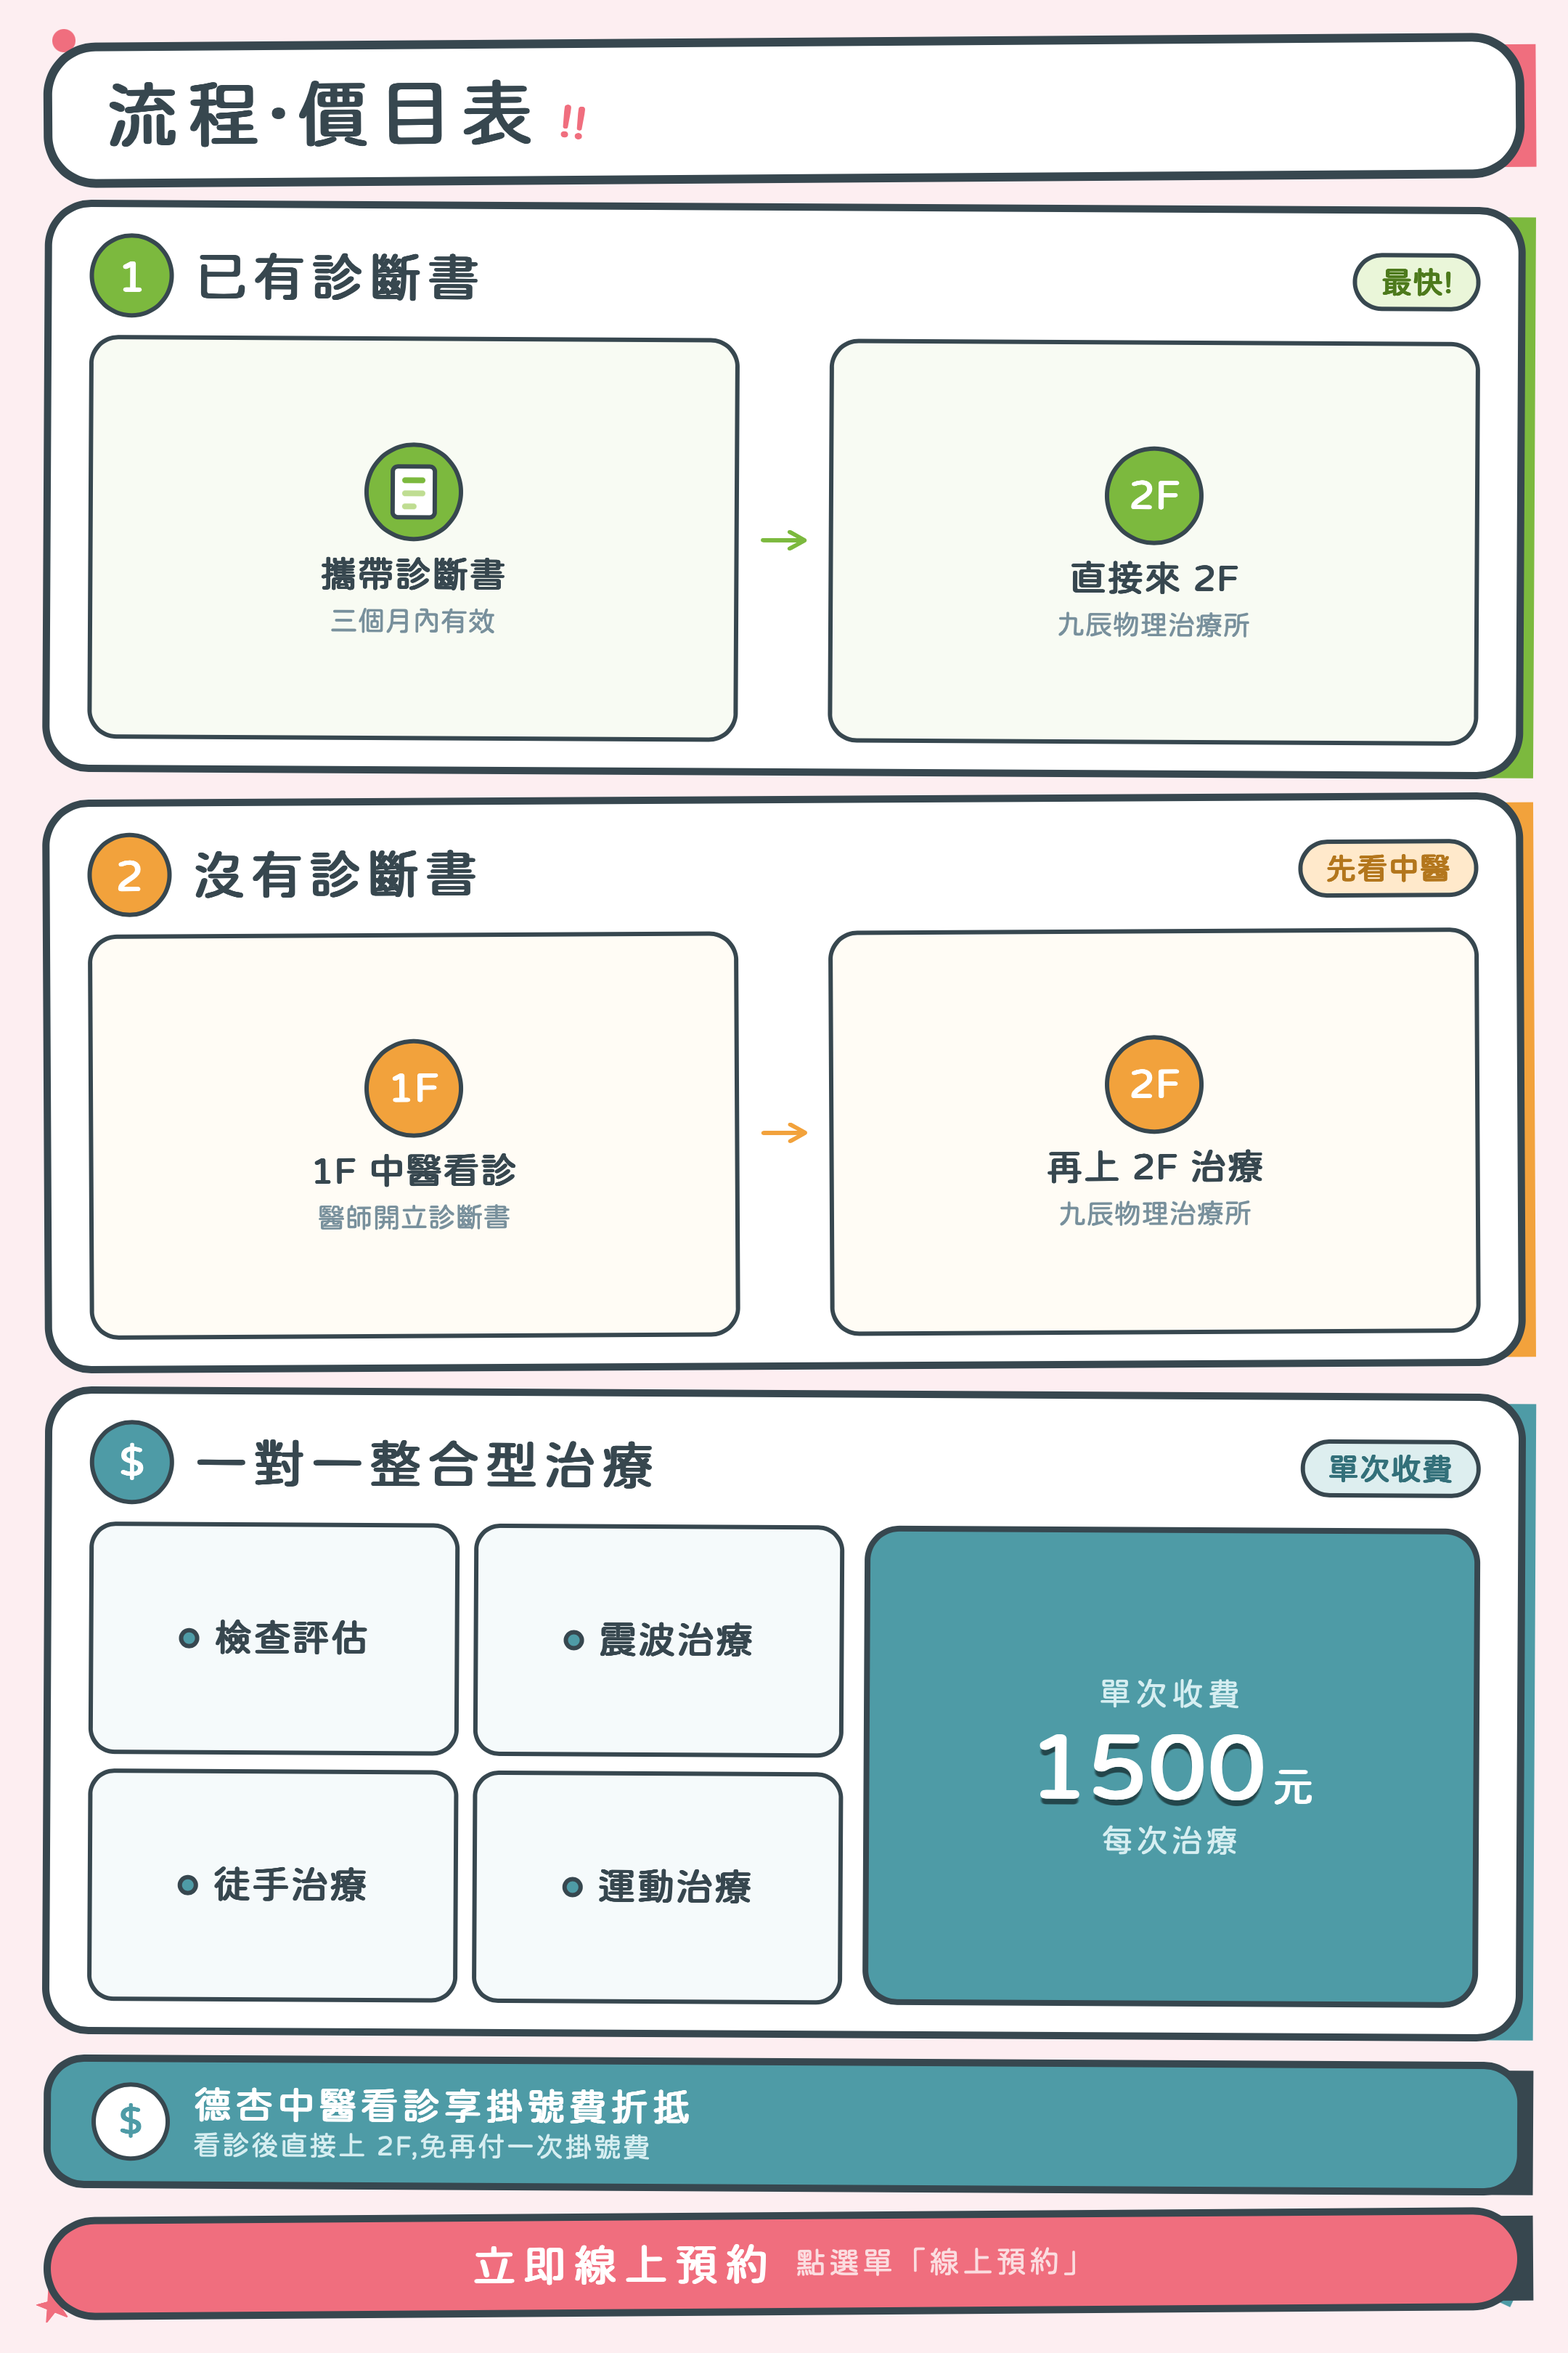
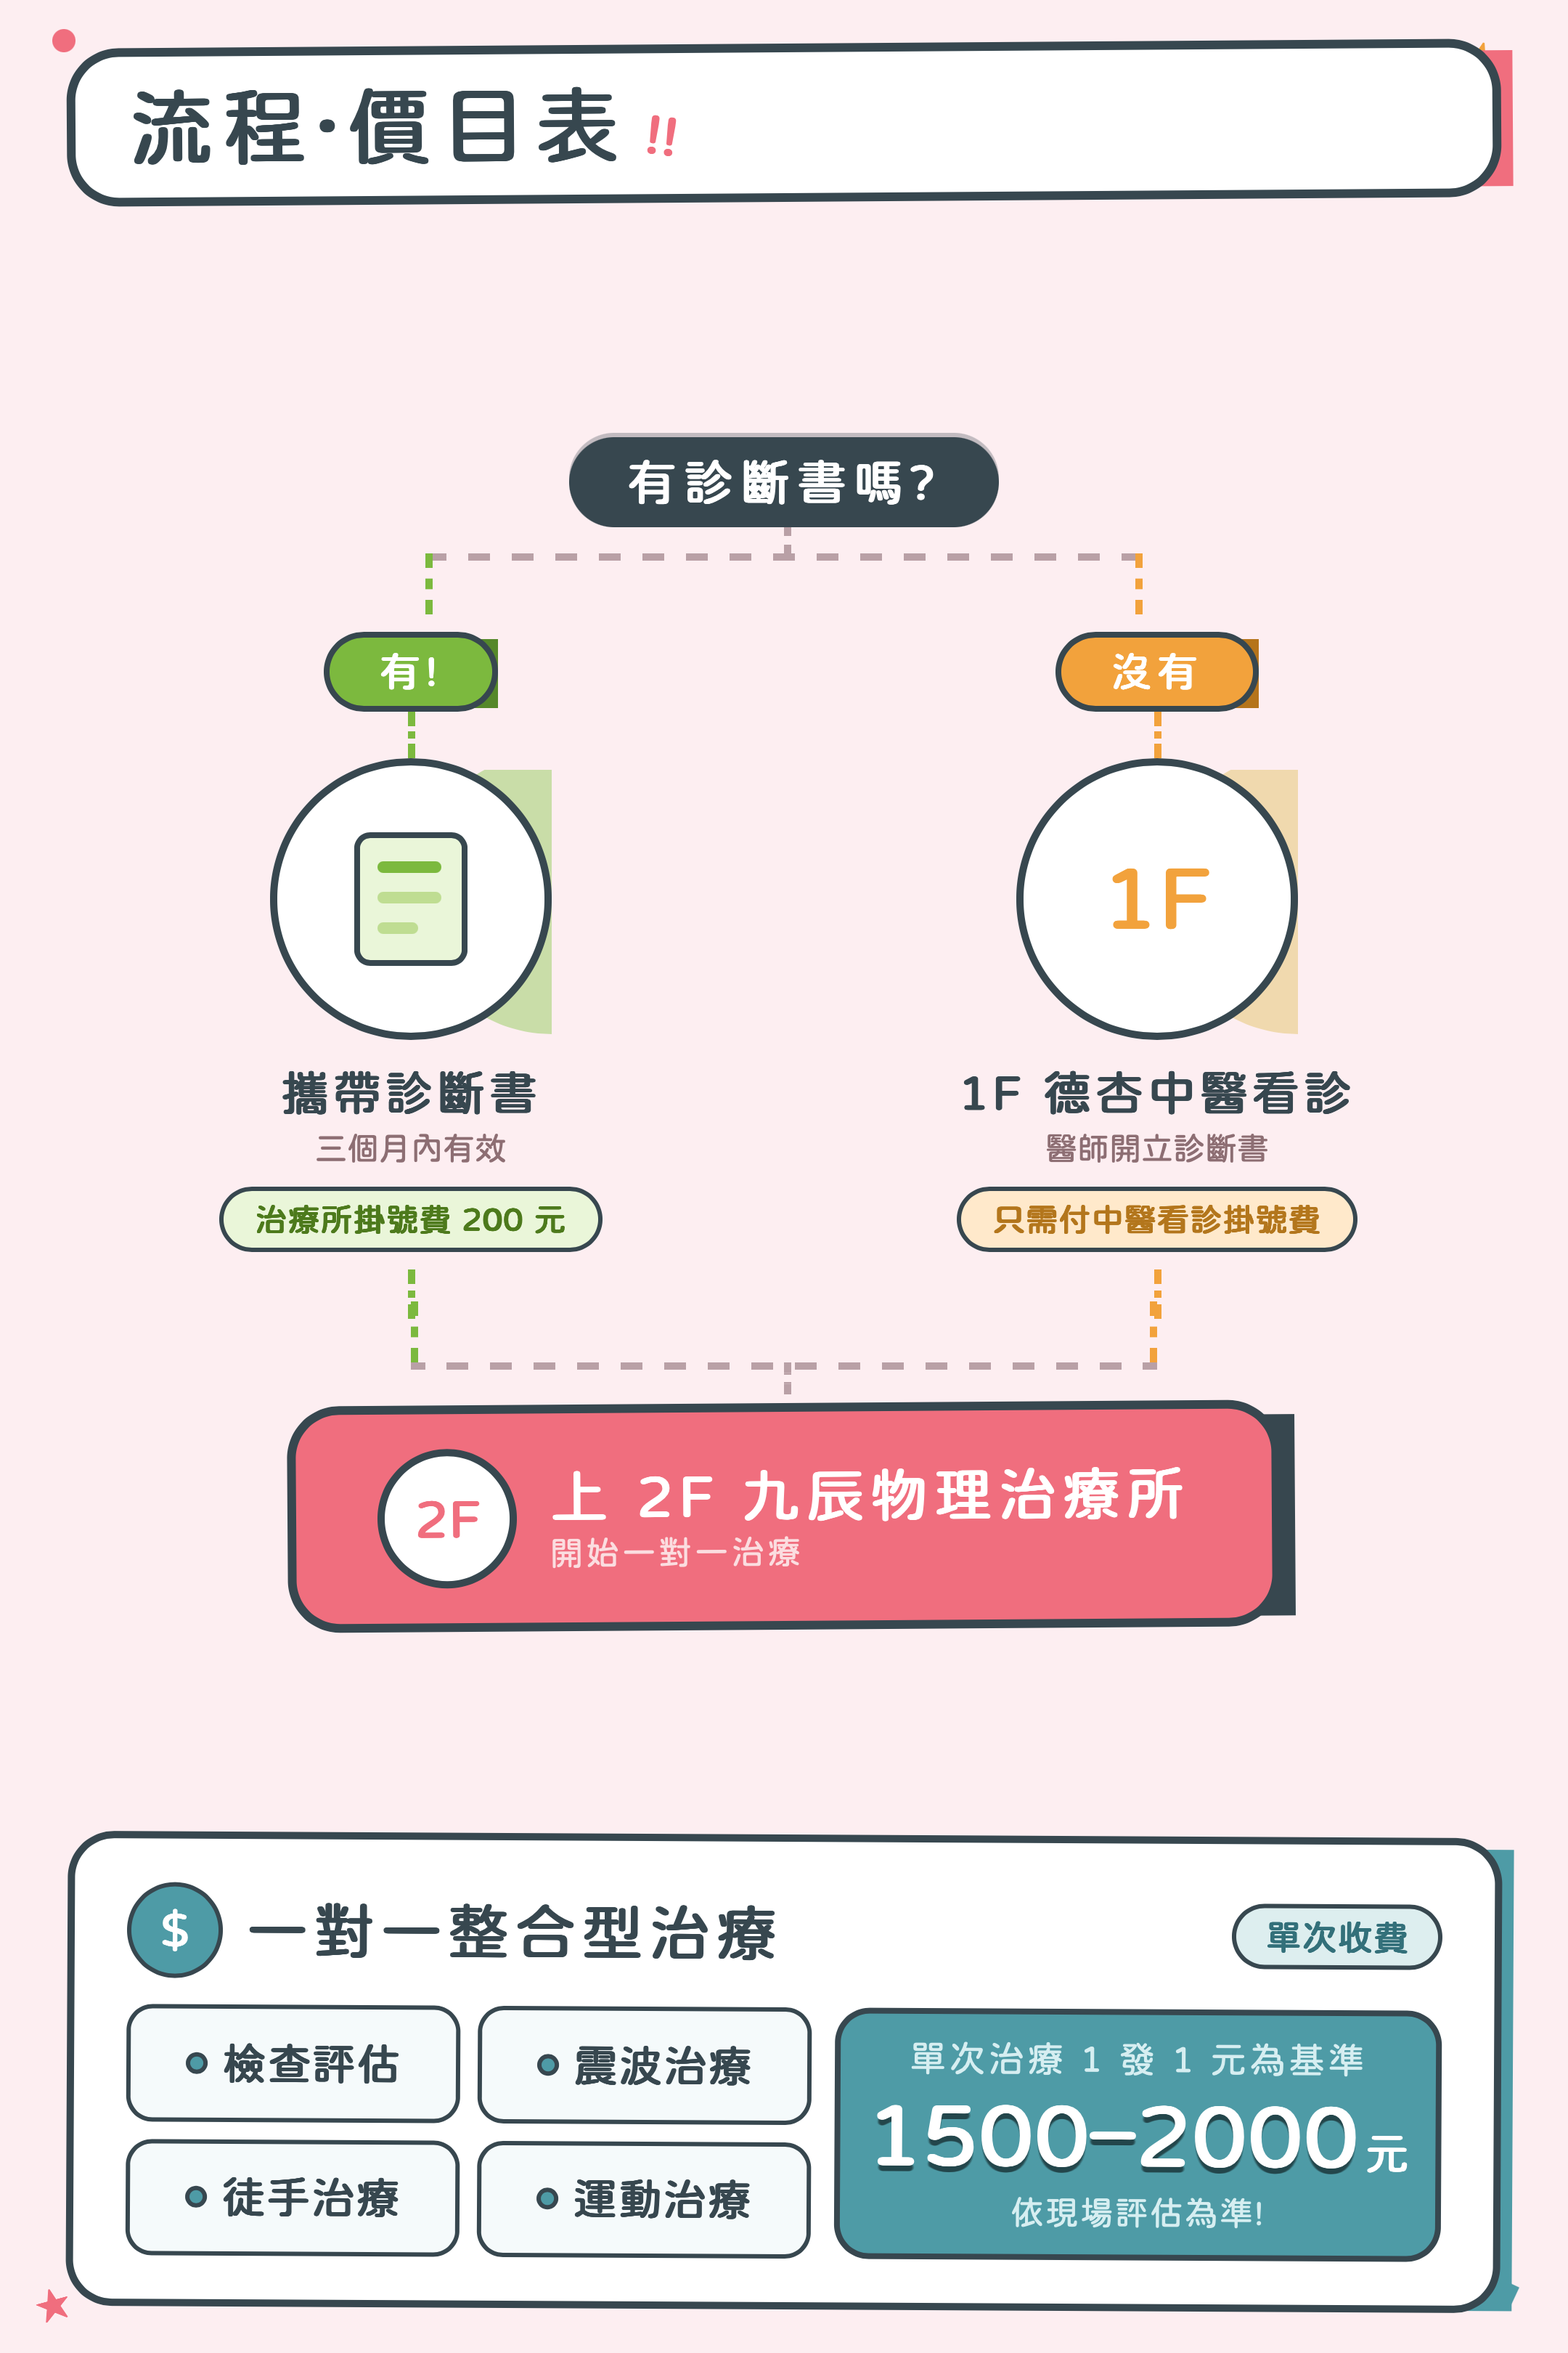
更新預約流程圖(有無診斷書分流+掛號費+1500-2000價目);process.png v2

diff --git a/line/process.html b/line/process.html
@@ -15,7 +15,7 @@
 </head>
 <body>
 <div class="wrap">
-  <img src="process.png?v=1" alt="預約流程・價目表">
+  <img src="process.png?v=2" alt="預約流程・價目表">
   <a class="btn" href="https://liff.line.me/2010100504-7lHo8M0R">📅 立即線上預約</a>
 </div>
 </body>
